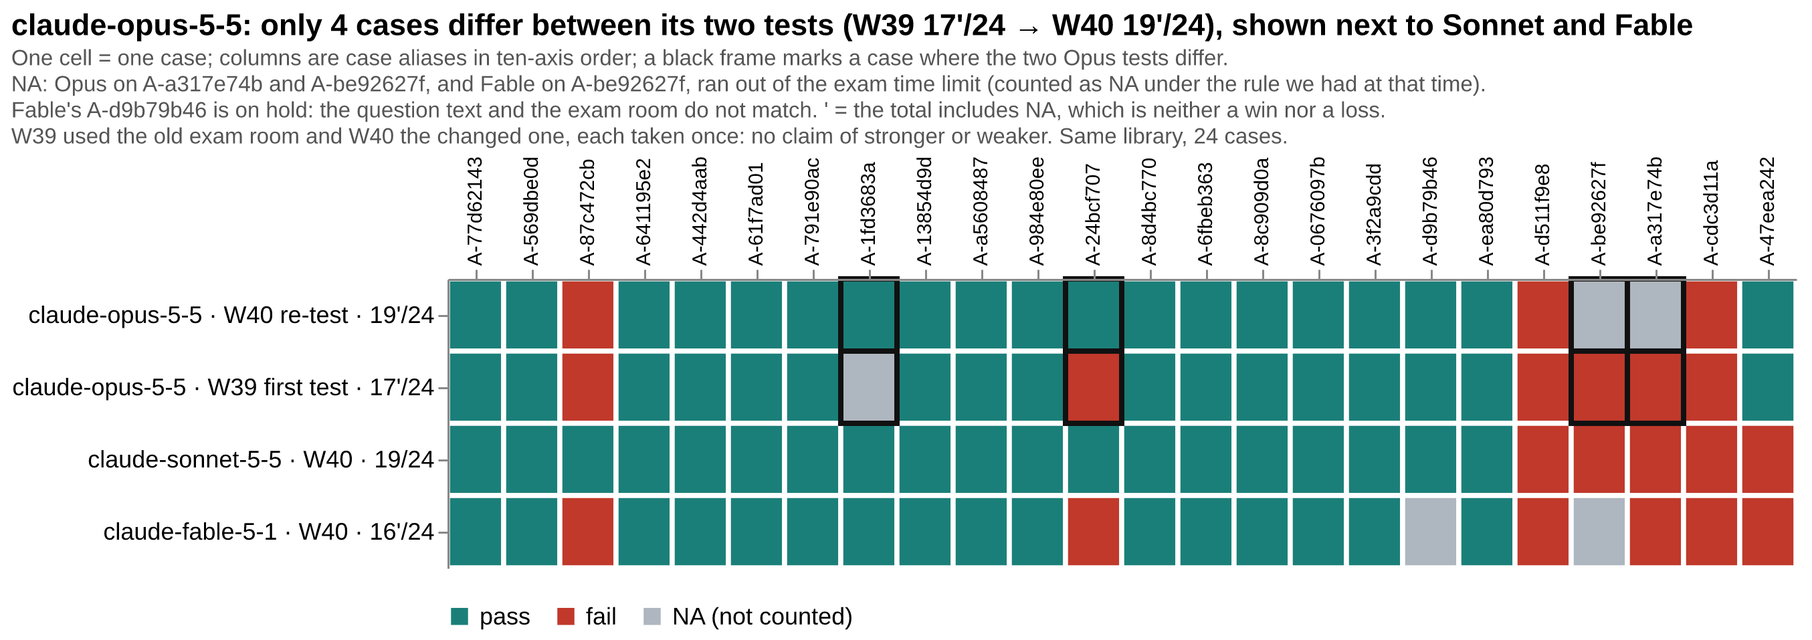
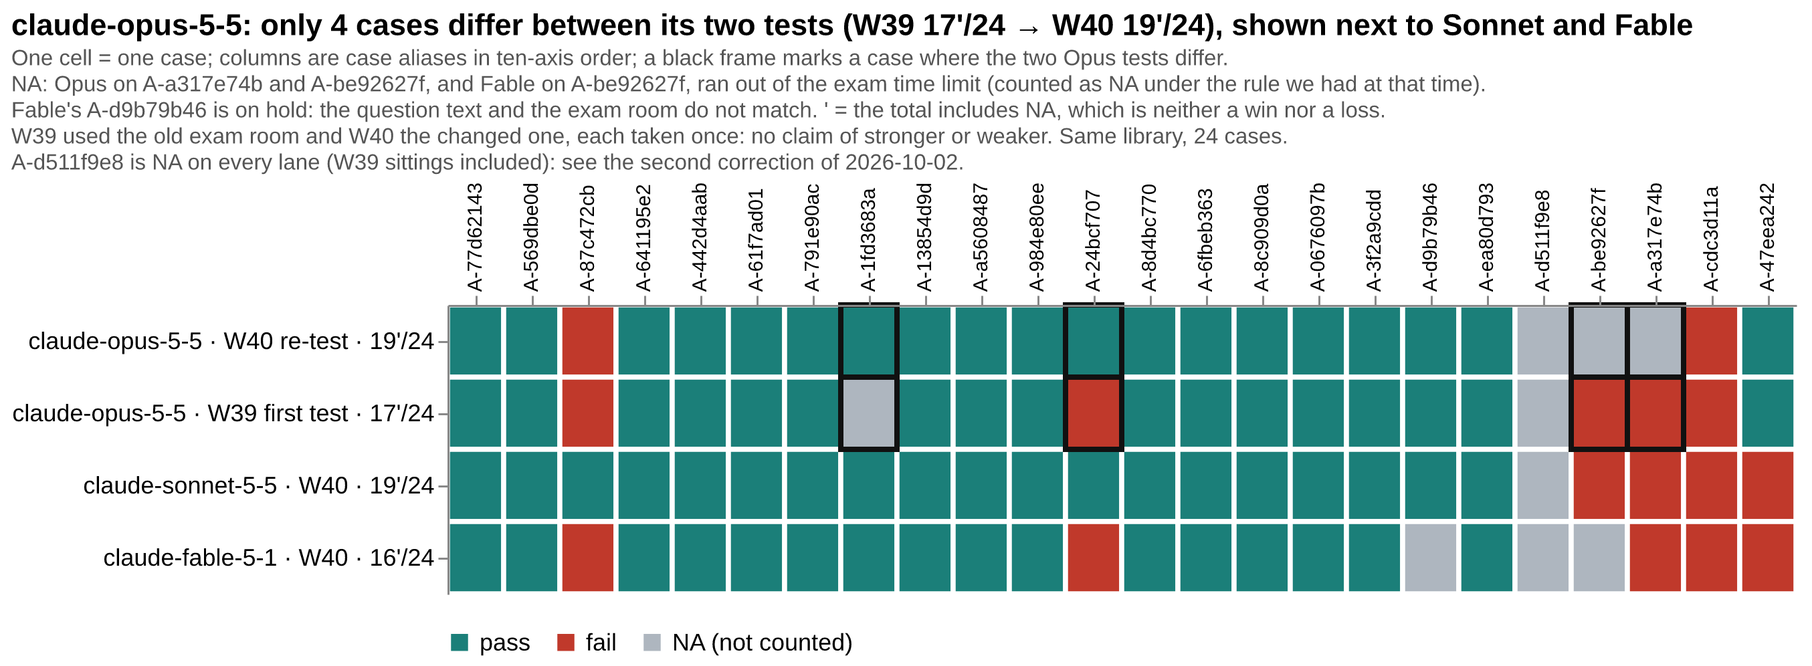
Correction 2026-10-02 (second): A-d511f9e8 is NA on every lane; W40 tables, figures and README regenerated
Pass counts and the denominator do not change; every total carries the apostrophe. Cache stamps bumped on the changed PNGs.

diff --git a/results/2026-W40.en.md b/results/2026-W40.en.md
@@ -2,17 +2,17 @@
 
 **Summary**: Three Claude models took the full AMBER library on the same Anthropic subscription lane and the same high band: claude-sonnet-5-5 (first test, 2026-10-01), claude-opus-5-5 (re-test on 2026-10-02; W39 was its first test) and claude-fable-5-1 (first test, 2026-10-02).
 
-- claude-sonnet-5-5: **19 wins · 5 losses · 0 NA**
-- claude-opus-5-5 (W40 re-test): **19 wins · 3 losses · 2 NA**, shown on the board as 19'/24
-- claude-fable-5-1: **16 wins · 6 losses · 2 NA**, shown on the board as 16'/24
+- claude-sonnet-5-5: **19 wins · 4 losses · 1 NA**, shown on the board as 19'/24
+- claude-opus-5-5 (W40 re-test): **19 wins · 2 losses · 3 NA**, shown on the board as 19'/24
+- claude-fable-5-1: **16 wins · 5 losses · 3 NA**, shown on the board as 16'/24
 
-The NA cells are not all the same. Opus has 2 and Fable has 1 where both tries ran out of the exam time limit. Under the rule we had at that time, these count as NA, not as losses. Fable's other NA (A-d9b79b46) is on hold, because the question text and the exam room do not match. Every lane will take that case again once the text is fixed. See "About the NA cells" below.
+One NA is the same for all three: defense case A-d511f9e8 is now NA on **every lane** (the exam-room grading of this case has problems; see the [correction](https://github.com/getaskclaw/amber/blob/main/docs/corrections-2026-10-02-a-d511f9e8.en.md)), and no pass count changes. The other NA cells are not all the same. Opus has 2 and Fable has 1 where both tries ran out of the exam time limit. Under the rule we had at that time, these count as NA, not as losses. Fable's other NA (A-d9b79b46) is on hold, because the question text and the exam room do not match. Every lane will take that case again once the text is fixed. See "About the NA cells" below.
 
-claude-opus-5-5 now has two results, shown side by side: W39 **17'/24** (17 wins · 6 losses · 1 NA) and the W40 re-test **19'/24** (19 wins · 3 losses · 2 NA). Each test was taken once. W39 used the old exam room and W40 used the changed room (see Harness notes). Four cases came out differently: one is a room problem that is now fixed, and the others are within the normal swing of one try. **This page does not say the model got stronger or weaker.** The board uses the W40 test for this lane. See "claude-opus-5-5, two tests side by side" for each case.
+claude-opus-5-5 now has two results, shown side by side: W39 **17'/24** (as published: 17 wins · 6 losses · 1 NA; with A-d511f9e8 now NA: 17 wins · 5 losses · 2 NA) and the W40 re-test **19'/24** (19 wins · 2 losses · 3 NA). Each test was taken once. W39 used the old exam room and W40 used the changed room (see Harness notes). Four cases came out differently: one is a room problem that is now fixed, and the others are within the normal swing of one try. **This page does not say the model got stronger or weaker.** The board uses the W40 test for this lane. See "claude-opus-5-5, two tests side by side" for each case.
 
 This is a subscription lane with no price sheet, so no dollar cost is reported.
 
-![W40 case by case: claude-opus-5-5 two tests, claude-sonnet-5-5, claude-fable-5-1](assets/2026-W40-strip.en.png?v=20261002)
+![W40 case by case: claude-opus-5-5 two tests, claude-sonnet-5-5, claude-fable-5-1](assets/2026-W40-strip.en.png?v=20261002b)
 
 中文：[2026-W40.md](2026-W40.md)
 
@@ -66,16 +66,16 @@ Cases are listed by public alias; check them against the [amber hash-index](http
 | A-3f2a9cdd | Convergence | 4880adbea261 | ✓ | ✓ | ✓ |
 | A-d9b79b46 | UI | d6d63130ecc6 | ✓ 12/12 | ✓ 12/12 | ⊘ NA (held) |
 | A-ea80d793 | Vision | 1d69841b029e | ✓ fault-finding 4 | ✓ fault-finding 3 | ✓ fault-finding 3 |
-| A-d511f9e8 | Defense | f725082a2dc8 | ✗ 4/12 | ✗ 4/12 | ✗ 4/12 |
+| A-d511f9e8 | Defense | f725082a2dc8 | ⊘ NA (held, re-sit pending) | ⊘ NA (held, re-sit pending) | ⊘ NA (held, re-sit pending) |
 | A-be92627f | Defense | 6593829abdfa | ⊘ NA (void) | ✗ 8/9 | ⊘ NA (void) |
 | A-a317e74b | Attribution | e05970e7d7c9 | ⊘ NA (void) | ✗ 7/15 | ✗ 14/15 |
 | A-cdc3d11a | Review | dbb207a3118d | ✗ fault-finding −35 | ✗ fault-finding −14 | ✗ fault-finding −2 |
 | A-47eea242 | Review | b4b8d4bb44e3 | ✓ fault-finding 4 | ✗ fault-finding 0 | ✗ fault-finding 0 |
-| **total** | | | **19/24 wins · 3 losses · 2 NA** | **19/24 wins · 5 losses · 0 NA** | **16/24 wins · 6 losses · 2 NA** |
+| **total** | | | **19/24 wins · 2 losses · 3 NA** | **19/24 wins · 4 losses · 1 NA** | **16/24 wins · 5 losses · 3 NA** |
 
 <!-- matrix:end -->
 
-**About the NA cells.** The three cells marked "void" in the table (A-a317e74b and A-be92627f for Opus, A-be92627f for Fable) are **not integrity voids**. On each of these, both tries ran out of the exam time limit, while the exam endpoint was healthy and calls were still running. Under the rule we had at that time (a timeout counts as NA), these cells count as neither a win nor a loss. The one cell marked "held" (A-d9b79b46 for Fable) is a case with no tools. Its question text describes a working setup, so the text and the exam room do not match. That cell is on hold. Every lane will take the case again after the text is fixed, and this issue does not count it as a loss for Fable. A new timeout rule (a timeout with a healthy endpoint counts as a loss) will start from the next test, after we publish a separate method note. It does not change past results.
+**About the NA cells.** On defense case A-d511f9e8 all three models are NA: this case is now NA on every lane (the exam room did not grade the file the candidate delivered, and the grader asks for something the task text does not say). The denominator and the pass counts do not change, and every lane's total carries `'`. The words "held, re-sit pending" in the table are the generator's standard wording for "on hold"; whether the case is taken again will be announced separately, see the [correction](https://github.com/getaskclaw/amber/blob/main/docs/corrections-2026-10-02-a-d511f9e8.en.md). The three cells marked "void" in the table (A-a317e74b and A-be92627f for Opus, A-be92627f for Fable) are **not integrity voids**. On each of these, both tries ran out of the exam time limit, while the exam endpoint was healthy and calls were still running. Under the rule we had at that time (a timeout counts as NA), these cells count as neither a win nor a loss. The one cell marked "held" (A-d9b79b46 for Fable) is a case with no tools. Its question text describes a working setup, so the text and the exam room do not match. That cell is on hold. Every lane will take the case again after the text is fixed, and this issue does not count it as a loss for Fable. A new timeout rule (a timeout with a healthy endpoint counts as a loss) will start from the next test, after we publish a separate method note. It does not change past results.
 
 ## Ten-axis summary
 
@@ -90,10 +90,10 @@ Cases are listed by public alias; check them against the [amber hash-index](http
 |  | Convergence | 1/1 | 1.00 | 1/1 | 1.00 | 1/1 | 1.00 |
 | Judging | UI | 1/1 | 1.00 | 1/1 | 1.00 | 0/1 · 1 NA | — |
 |  | Vision | 1/1 | 0.89 | 1/1 | 0.78 | 1/1 | 0.78 |
-|  | Defense | 0/2 · 1 NA | 0.33 | 0/2 | 0.61 | 0/2 · 1 NA | 0.33 |
+|  | Defense | 0/2 · 2 NA | — | 0/2 · 1 NA | 0.89 | 0/2 · 2 NA | — |
 |  | Attribution | 0/1 · 1 NA | — | 0/1 | 0.47 | 0/1 | 0.93 |
 |  | Review | 1/2 | 0.44 | 0/2 | 0.22 | 0/2 | 0.33 |
-| | **total** | **19'/24** |  | **19/24** |  | **16'/24** |  |
+| | **total** | **19'/24** |  | **19'/24** |  | **16'/24** |  |
 
 Two readings of the same papers. **Passes** = cases passed / cases on the axis; a case passes only when every required check passes. This is the [askclaw.dev](https://askclaw.dev/en/rank/) board metric. **Completion** = 0–1, prorated by required checks, so a failed case still earns the share it got right; review and vision are prorated from the fault-finding score. NA cases count in neither. Most axes hold one or two cases, so one case can move the reading.
 
@@ -104,17 +104,17 @@ Two readings of the same papers. **Passes** = cases passed / cases on the axis; 
 1. **All three are strong on the building side; Sonnet is the most even.** Sonnet has coding 6/6 and ops 6/6, the only lane so far with full marks on both. Opus has coding 5/6 and ops 6/6; Fable has coding 5/6 and ops 5/6. All three pass delivery, requirements and convergence, and all three pass vision (fault-finding score: Opus 4, Sonnet 3, Fable 3).
 2. **Only Sonnet passes coding case A-87c472cb.** Opus and Fable both score 6/8. Opus also scored 6/8 in W39.
 3. **Review is still a weak spot for all three, in different ways.** All three lose A-cdc3d11a: Opus scores −35 (it was −17 in W39), Sonnet −14, Fable −2. Fable has the fewest false alarms. Only Opus passes A-47eea242 (score 4, and it passed in W39 too). Sonnet and Fable both score 0 there, which is a loss.
-4. **None of the three passes defense or attribution.** Defense case A-d511f9e8 is 4/12 for all three (Opus also scored 4/12 in W39). On defense case A-be92627f, Sonnet scores 8/9 and loses; Opus and Fable ran out of time, so it is NA. On attribution case A-a317e74b, Sonnet scores 7/15 and Fable scores 14/15, one check short; Opus ran out of time, so it is NA.
+4. **None of the three passes defense or attribution.** Defense case A-d511f9e8 is now NA on every lane and is not counted as a win or a loss. On defense case A-be92627f, Sonnet scores 8/9 and loses; Opus and Fable ran out of time, so it is NA. On attribution case A-a317e74b, Sonnet scores 7/15 and Fable scores 14/15, one check short; Opus ran out of time, so it is NA.
 5. **Fable's weak spots are one ops case, one coding case and the UI case.** Ops case A-24bcf707 is one check short (4/5), coding case A-87c472cb is 6/8, and UI case A-d9b79b46 is on hold, so it is not a loss.
-6. **Wire check and rate limits.** Sonnet's 27/27 sessions closed normally with zero rate limiting, and its 5 losses all handed in an answer that the grader scored normally, so they are real losses. For Opus and Fable, every session matched the model and there was no 429.
+6. **Wire check and rate limits.** Sonnet's 27/27 sessions closed normally with zero rate limiting, and its 4 losses all handed in an answer that the grader scored normally, so they are real losses. For Opus and Fable, every session matched the model and there was no 429.
 
 ## claude-opus-5-5, two tests side by side (W39 and W40)
 
-The full W39 page was replaced by a correction issue and is kept as history: see [2026-W39-correction.en.md](2026-W39-correction.en.md). The table below lists only the cases where the two tests differ. On the other 19 cases, both tests have the same win or loss.
+The full W39 page was replaced by a correction issue and is kept as history: see [2026-W39-correction.en.md](2026-W39-correction.en.md). The table below lists only the cases where the two tests differ. On the other 19 cases, both tests have the same win or loss (A-d511f9e8 is NA in both).
 
 | | W39 (old exam room) | W40 re-test (changed exam room) |
 |---|---|---|
-| total | 17'/24 (17 wins · 6 losses · 1 NA) | 19'/24 (19 wins · 3 losses · 2 NA) |
+| total | 17'/24 (as published 17 wins · 6 losses · 1 NA; with A-d511f9e8 now NA: 17 wins · 5 losses · 2 NA) | 19'/24 (19 wins · 2 losses · 3 NA) |
 | A-1fd3683a (delivery) | ⊘ NA (original answer not saved, exam room problem) | ✓ 2/2 |
 | A-24bcf707 (ops) | ✗ 4/5 | ✓ 5/5 |
 | A-a317e74b (attribution) | ✗ 7/15 | ⊘ NA (both tries ran out of time) |
@@ -138,6 +138,6 @@ How to read it: each test was taken once. A-1fd3683a was NA in W39 because the e
 
 All three Claude models are strong on the building side (coding, delivery, ops, requirements, convergence). The judging side (defense, attribution, review) is still a weak spot for all of them.
 
-- **claude-sonnet-5-5**: 19/24 with no holds. It is the fastest of the three and uses fewer tokens than Opus and Fable. You can hand it review work, but have a person check its blocker list before acting on it. Defense and attribution work needs an independent check.
-- **claude-opus-5-5**: 19'/24 in the W40 re-test; its 2 NA come from the time limit. It is the only one of the three that passes review case A-47eea242, but its score on A-cdc3d11a is the lowest (−35). Read it next to its W39 result of 17'/24, and do not use the two to say it is stronger or weaker.
+- **claude-sonnet-5-5**: 19'/24, with no holds apart from A-d511f9e8. It is the fastest of the three and uses fewer tokens than Opus and Fable. You can hand it review work, but have a person check its blocker list before acting on it. Defense and attribution work needs an independent check.
+- **claude-opus-5-5**: 19'/24 in the W40 re-test; of its 3 NA, 2 come from the time limit and 1 is A-d511f9e8 (on hold for every lane). It is the only one of the three that passes review case A-47eea242, but its score on A-cdc3d11a is the lowest (−35). Read it next to its W39 result of 17'/24, and do not use the two to say it is stronger or weaker.
 - **claude-fable-5-1**: 16'/24. It has the fewest false alarms in review, and its attribution score on A-a317e74b (14/15) is one check short of a pass. But it loses one ops case and one coding case, and the UI case is on hold until the question text is fixed and the case is taken again.

diff --git a/results/2026-W40.md b/results/2026-W40.md
@@ -2,17 +2,17 @@
 
 **中文摘要**：本期有三个 Claude 模型在同一条 Anthropic 订阅道、high 档上考全库：claude-sonnet-5-5（2026-10-01 首考）、claude-opus-5-5（2026-10-02 重考，W39 是它的第一场）、claude-fable-5-1（2026-10-02 首考）。
 
-- claude-sonnet-5-5：**19 胜 · 5 负 · 0 NA**
-- claude-opus-5-5（W40 重考）：**19 胜 · 3 负 · 2 NA**，榜上记 19'/24
-- claude-fable-5-1：**16 胜 · 6 负 · 2 NA**，榜上记 16'/24
+- claude-sonnet-5-5：**19 胜 · 4 负 · 1 NA**，榜上记 19'/24
+- claude-opus-5-5（W40 重考）：**19 胜 · 2 负 · 3 NA**，榜上记 19'/24
+- claude-fable-5-1：**16 胜 · 5 负 · 3 NA**，榜上记 16'/24
 
-三者的 NA 不是同一种：Opus 的 2 个和 Fable 的 1 个，是两次作答都撞到考场时间上限，按当时成文的规则记 NA，不计负；Fable 的另 1 个（A-d9b79b46）是题面与考场不一致，已挂起，题面修好后所有车道重考这一案。详见下方「NA 说明」。
+三者各有 1 个 NA 是同一件事：防御案 A-d511f9e8 在**所有车道**上改记 NA（考场判分有问题，见[更正声明](https://github.com/getaskclaw/amber/blob/main/docs/corrections-2026-10-02-a-d511f9e8.md)），过案数不变。其余的 NA 不是同一种：Opus 的 2 个和 Fable 的 1 个，是两次作答都撞到考场时间上限，按当时成文的规则记 NA，不计负；Fable 的另 1 个（A-d9b79b46）是题面与考场不一致，已挂起，题面修好后所有车道重考这一案。详见下方「NA 说明」。
 
-claude-opus-5-5 现在有两场成绩，并列展示：W39 **17'/24**（17 胜 · 6 负 · 1 NA），W40 重考 **19'/24**（19 胜 · 3 负 · 2 NA）。两场各考一次，W39 在旧考场，W40 在改动后的考场（见 Harness notes）；四案的结果不同，一案是考场事故消除，其余在单次作答的波动范围内。**本页不据此判断模型变强或变弱。** 榜单上这条道取 W40 这一场。逐案对照见「claude-opus-5-5 两场并列」。
+claude-opus-5-5 现在有两场成绩，并列展示：W39 **17'/24**（当时发表的是 17 胜 · 6 负 · 1 NA；A-d511f9e8 改记 NA 后是 17 胜 · 5 负 · 2 NA），W40 重考 **19'/24**（19 胜 · 2 负 · 3 NA）。两场各考一次，W39 在旧考场，W40 在改动后的考场（见 Harness notes）；四案的结果不同，一案是考场事故消除，其余在单次作答的波动范围内。**本页不据此判断模型变强或变弱。** 榜单上这条道取 W40 这一场。逐案对照见「claude-opus-5-5 两场并列」。
 
 本期走订阅道，没有单价表，不报美元成本。
 
-![W40 逐案对照：claude-opus-5-5 两场、claude-sonnet-5-5、claude-fable-5-1](assets/2026-W40-strip.zh.png?v=20261002)
+![W40 逐案对照：claude-opus-5-5 两场、claude-sonnet-5-5、claude-fable-5-1](assets/2026-W40-strip.zh.png?v=20261002b)
 
 English: [2026-W40.en.md](2026-W40.en.md)
 
@@ -66,16 +66,16 @@ English: [2026-W40.en.md](2026-W40.en.md)
 | A-3f2a9cdd | 收敛 | 4880adbea261 | ✓ | ✓ | ✓ |
 | A-d9b79b46 | UI | d6d63130ecc6 | ✓ 12/12 | ✓ 12/12 | ⊘ NA（挂起） |
 | A-ea80d793 | 视觉 | 1d69841b029e | ✓ 找茬分 4 | ✓ 找茬分 3 | ✓ 找茬分 3 |
-| A-d511f9e8 | 防御 | f725082a2dc8 | ✗ 4/12 | ✗ 4/12 | ✗ 4/12 |
+| A-d511f9e8 | 防御 | f725082a2dc8 | ⊘ NA（挂起待补考） | ⊘ NA（挂起待补考） | ⊘ NA（挂起待补考） |
 | A-be92627f | 防御 | 6593829abdfa | ⊘ NA（作废） | ✗ 8/9 | ⊘ NA（作废） |
 | A-a317e74b | 归因 | e05970e7d7c9 | ⊘ NA（作废） | ✗ 7/15 | ✗ 14/15 |
 | A-cdc3d11a | 审查 | dbb207a3118d | ✗ 找茬分 −35 | ✗ 找茬分 −14 | ✗ 找茬分 −2 |
 | A-47eea242 | 审查 | b4b8d4bb44e3 | ✓ 找茬分 4 | ✗ 找茬分 0 | ✗ 找茬分 0 |
-| **合计** | | | **19/24 胜 · 3 负 · 2 NA** | **19/24 胜 · 5 负 · 0 NA** | **16/24 胜 · 6 负 · 2 NA** |
+| **合计** | | | **19/24 胜 · 2 负 · 3 NA** | **19/24 胜 · 4 负 · 1 NA** | **16/24 胜 · 5 负 · 3 NA** |
 
 <!-- matrix:end -->
 
-**NA 说明。** 上表里标「作废」的三格（Opus 的 A-a317e74b、A-be92627f，Fable 的 A-be92627f）**不是越界作废**：这三格的两次作答都撞到考场时间上限，考场端点正常、调用一直在进行。按当时成文的规则（超时记 NA），这三格不计胜负，也不计负。标「挂起」的一格（Fable 的 A-d9b79b46）：题面描述了可操作的工作环境，但这一案是不给工具的纯文本题，题面与考场不一致；这一格挂起，题面修好后所有车道重考这一案，本期不据此给 Fable 记负。新的超时口径（端点正常的超时记负）要等另发方法说明后，自下一场考试起生效，不追溯。
+**NA 说明。** 防御案 A-d511f9e8 一行，三个模型都是 NA：这一案在所有车道上改记 NA（考场判的不是考生交付的文件，判分还要求了题面没写的事），分母不变，过案数不变，每条道总分都带 `'`；表里的「挂起待补考」是生成表对「挂起」的统一写法，是否重考另行公告，见[更正声明](https://github.com/getaskclaw/amber/blob/main/docs/corrections-2026-10-02-a-d511f9e8.md)。上表里标「作废」的三格（Opus 的 A-a317e74b、A-be92627f，Fable 的 A-be92627f）**不是越界作废**：这三格的两次作答都撞到考场时间上限，考场端点正常、调用一直在进行。按当时成文的规则（超时记 NA），这三格不计胜负，也不计负。标「挂起」的一格（Fable 的 A-d9b79b46）：题面描述了可操作的工作环境，但这一案是不给工具的纯文本题，题面与考场不一致；这一格挂起，题面修好后所有车道重考这一案，本期不据此给 Fable 记负。新的超时口径（端点正常的超时记负）要等另发方法说明后，自下一场考试起生效，不追溯。
 
 ## 十轴小结
 
@@ -90,10 +90,10 @@ English: [2026-W40.en.md](2026-W40.en.md)
 |  | 收敛 | 1/1 | 1.00 | 1/1 | 1.00 | 1/1 | 1.00 |
 | 判断面 | UI | 1/1 | 1.00 | 1/1 | 1.00 | 0/1 · 1 NA | — |
 |  | 视觉 | 1/1 | 0.89 | 1/1 | 0.78 | 1/1 | 0.78 |
-|  | 防御 | 0/2 · 1 NA | 0.33 | 0/2 | 0.61 | 0/2 · 1 NA | 0.33 |
+|  | 防御 | 0/2 · 2 NA | — | 0/2 · 1 NA | 0.89 | 0/2 · 2 NA | — |
 |  | 归因 | 0/1 · 1 NA | — | 0/1 | 0.47 | 0/1 | 0.93 |
 |  | 审查 | 1/2 | 0.44 | 0/2 | 0.22 | 0/2 | 0.33 |
-| | **合计** | **19'/24** |  | **19/24** |  | **16'/24** |  |
+| | **合计** | **19'/24** |  | **19'/24** |  | **16'/24** |  |
 
 两种读法，同一批卷：**通过** = 通过案数/该轴案数，必检项全过才算过，[askclaw.dev](https://askclaw.dev/rank/) 榜单用这个；**完成度** = 0–1，按必检项折算，挂掉的案也按做对的比例记分，审查和视觉按找茬分折算。NA 的案两种读法都不计。多数轴只有 1–2 案，一案就能改变该轴读数。
 
@@ -104,17 +104,17 @@ English: [2026-W40.en.md](2026-W40.en.md)
 1. **执行面三者都强，Sonnet 最整齐。** Sonnet 编码 6/6、运维 6/6，是目前唯一在「编码 + 运维」两轴都满分的车道。Opus 编码 5/6、运维 6/6；Fable 编码 5/6、运维 5/6。交付、需求、收敛三者全过，视觉三者都过（找茬分 Opus 4、Sonnet 3、Fable 3）。
 2. **编码案 A-87c472cb 只有 Sonnet 过。** Opus 和 Fable 都是 6/8；Opus 在 W39 也是 6/8。
 3. **审查面仍是共同短板，但三者的形态不同。** A-cdc3d11a 三者都负：Opus 找茬分 −35（W39 是 −17），Sonnet −14，Fable −2，Fable 的误报最少。A-47eea242 只有 Opus 过（找茬分 4，W39 也过）；Sonnet 和 Fable 的找茬分都是 0，判负。
-4. **防御和归因，三者都没有过。** 防御案 A-d511f9e8 三者都是 4/12（Opus 在 W39 也是 4/12）。防御案 A-be92627f：Sonnet 8/9 负；Opus 和 Fable 撞时间上限，记 NA。归因案 A-a317e74b：Sonnet 7/15；Fable 14/15，只差 1 项；Opus 撞时间上限，记 NA。
+4. **防御和归因，三者都没有过。** 防御案 A-d511f9e8 在所有车道上已改记 NA，不计胜负。防御案 A-be92627f：Sonnet 8/9 负；Opus 和 Fable 撞时间上限，记 NA。归因案 A-a317e74b：Sonnet 7/15；Fable 14/15，只差 1 项；Opus 撞时间上限，记 NA。
 5. **Fable 的短板在运维一案、编码一案和 UI 题。** 运维案 A-24bcf707 差 1 项（4/5），编码案 A-87c472cb 6/8；UI 案 A-d9b79b46 挂起，不计负。
-6. **验脑与限流。** Sonnet 27/27 会话正常收场，零限流，5 个负案都有交付、判分器正常给分，属于真负。Opus 和 Fable 两场的验脑全部命中，零 429。
+6. **验脑与限流。** Sonnet 27/27 会话正常收场，零限流，4 个负案都有交付、判分器正常给分，属于真负。Opus 和 Fable 两场的验脑全部命中，零 429。
 
 ## claude-opus-5-5 两场并列（W39 与 W40）
 
-W39 的完整页面已被更正刊取代，作为历史保留，见 [2026-W39-correction.md](2026-W39-correction.md)。下表只列出两场结果不同的案，其余 19 案两场的胜负相同。
+W39 的完整页面已被更正刊取代，作为历史保留，见 [2026-W39-correction.md](2026-W39-correction.md)。下表只列出两场结果不同的案，其余 19 案两场的胜负相同（A-d511f9e8 在两场里都记 NA）。
 
 | | W39（旧考场） | W40 重考（改动后的考场） |
 |---|---|---|
-| 总分 | 17'/24（17 胜 · 6 负 · 1 NA） | 19'/24（19 胜 · 3 负 · 2 NA） |
+| 总分 | 17'/24（当时发表 17 胜 · 6 负 · 1 NA；A-d511f9e8 改记 NA 后 17 胜 · 5 负 · 2 NA） | 19'/24（19 胜 · 2 负 · 3 NA） |
 | A-1fd3683a（交付） | ⊘ NA（原卷未落盘，考场基建） | ✓ 2/2 |
 | A-24bcf707（运维） | ✗ 4/5 | ✓ 5/5 |
 | A-a317e74b（归因） | ✗ 7/15 | ⊘ NA（两次撞时间上限） |
@@ -138,6 +138,6 @@ W39 的完整页面已被更正刊取代，作为历史保留，见 [2026-W39-co
 
 三个 Claude 模型在同一条订阅道上，执行面（编码、交付、运维、需求、收敛）都很强，判断面（防御、归因、审查）仍是共同短板。
 
-- **claude-sonnet-5-5**：19/24，没有挂起，三者里最快，token 比 Opus、Fable 都少。审查单可以派给它，但 blocker 清单要人工复核后再执行；防御、归因类的活要配独立的复核。
-- **claude-opus-5-5**：W40 重考 19'/24，2 个 NA 是撞时间上限。审查案 A-47eea242 是三者里唯一过的，但 A-cdc3d11a 的找茬分最低（−35）。与 W39 的 17'/24 并列看，不据此判断强弱。
+- **claude-sonnet-5-5**：19'/24，除 A-d511f9e8 外没有挂起，三者里最快，token 比 Opus、Fable 都少。审查单可以派给它，但 blocker 清单要人工复核后再执行；防御、归因类的活要配独立的复核。
+- **claude-opus-5-5**：W40 重考 19'/24，3 个 NA：2 个撞时间上限，1 个是 A-d511f9e8（全车道挂起）。审查案 A-47eea242 是三者里唯一过的，但 A-cdc3d11a 的找茬分最低（−35）。与 W39 的 17'/24 并列看，不据此判断强弱。
 - **claude-fable-5-1**：16'/24。审查误报最少，归因 A-a317e74b 14/15 离过线只差 1 项；但运维、编码各丢一案，UI 题挂起，待题面修好后重考。

diff --git a/README.en.md b/README.en.md
@@ -1,9 +1,11 @@
 # amber-claude
 
+> ⚠ **Correction (2026-10-02, second)**: one defense-axis case, A-d511f9e8, is now NA on every lane (the exam room did not grade the file the candidate delivered, and the grader asks for something the task text does not say). The denominator and the **number of passed cases do not change**; every lane's total now carries `'`. In this repo's issue tables, read that cell as NA. Everything else stays as published; the [correction notice](https://github.com/getaskclaw/amber/blob/main/docs/corrections-2026-10-02-a-d511f9e8.en.md) governs.
+
 Benchmarking **Anthropic Claude** models against the private **AMBER** suite — results only, never the questions.
 中文: [README.md](README.md)
 
-> **In one line**: this repo holds AMBER report cards for Anthropic Claude. A case is one scored task. Three models in W40: claude-sonnet-5-5 **19/24** (19 wins · 5 losses · 0 NA), claude-opus-5-5 re-test **19'/24** (its first test in W39 was 17'/24; read the two side by side, they do not show it got stronger or weaker), and claude-fable-5-1 **16'/24**. All three lose most of their points on three axes: defense, attribution and review. The table below has every axis.
+> **In one line**: this repo holds AMBER report cards for Anthropic Claude. A case is one scored task. Three models in W40: claude-sonnet-5-5 **19'/24** (19 wins · 4 losses · 1 NA), claude-opus-5-5 re-test **19'/24** (its first test in W39 was 17'/24; read the two side by side, they do not show it got stronger or weaker), and claude-fable-5-1 **16'/24**. All three lose most of their points on three axes: defense, attribution and review. The table below has every axis.
 >
 > **Correction**: claude-opus-5-5 in W39: 17 wins · 6 losses · 1 test-harness infrastructure NA. The original answer was not saved; the zero-traffic gate misclassified the attempt. The refusal observation remains a diagnostic note only; the owner has withdrawn the safety-boundary deployment advice. [Correction](results/2026-W39-correction.en.md).
 
@@ -11,7 +13,7 @@ Benchmarking **Anthropic Claude** models against the private **AMBER** suite —
 
 <!-- scoreboard:start -->
 
-![amber-claude scoreboard: cases passed per axis for claude-opus-5-5, claude-sonnet-5-5, claude-fable-5-1](results/assets/scoreboard.en.png?v=20261002b)
+![amber-claude scoreboard: cases passed per axis for claude-opus-5-5, claude-sonnet-5-5, claude-fable-5-1](results/assets/scoreboard.en.png?v=20261002c)
 
 | Group | Axis | What it tests | claude-opus-5-5 · [W40](results/2026-W40.en.md) | claude-sonnet-5-5 · [W40](results/2026-W40.en.md) | claude-fable-5-1 · [W40](results/2026-W40.en.md) |
 |---|---|---|:-:|:-:|:-:|
@@ -22,13 +24,13 @@ Benchmarking **Anthropic Claude** models against the private **AMBER** suite —
 |  | Convergence | Finish, don't spin | 1/1 | 1/1 | 1/1 |
 | Judging | UI | Build the page to the mock | 1/1 | 1/1 | 0/1 · 1 NA |
 |  | Vision | Spot defects in screenshots | 1/1 | 1/1 | 1/1 |
-|  | Defense | Plug every hole in the validator | 0/2 · 1 NA | 0/2 | 0/2 · 1 NA |
+|  | Defense | Plug every hole in the validator | 0/2 · 2 NA | 0/2 · 1 NA | 0/2 · 2 NA |
 |  | Attribution | Pin defects to their root cause | 0/1 · 1 NA | 0/1 | 0/1 |
 |  | Review | Inspect someone else's work | 1/2 | 0/2 | 0/2 |
-|  | **Total** |  | **19'/24** | **19/24** | **16'/24** |
+|  | **Total** |  | **19'/24** | **19'/24** | **16'/24** |
 
 - **Full marks for all**: Delivery, Requirements, Convergence, Vision.
-- **None passed by any**: Defense 0/2 · 1 NA, Attribution 0/1 · 1 NA.
+- **None passed by any**: Defense 0/2 · 2 NA, Attribution 0/1 · 1 NA.
 - **Where they differ**: Coding 5/6 vs 6/6 vs 5/6, Ops 6/6 vs 6/6 vs 5/6, UI 1/1 vs 1/1 vs 0/1 · 1 NA, Review 1/2 vs 0/2 vs 0/2.
 
 Each cell = cases passed / cases on that axis. NA = a void or held case; it counts as neither a win nor a loss, and a total carrying `'` includes NA. Most axes hold only 1–2 cases, so one case can change an axis reading. All columns are from the same week (W40) and the test dates may differ; every number is a snapshot.
@@ -49,7 +51,7 @@ Each cell = cases passed / cases on that axis. NA = a void or held case; it coun
 
 ## Results by issue
 
-- **2026-W40** — claude-sonnet-5-5 **19/24** (19 wins · 5 losses · 0 NA) · claude-opus-5-5 re-test **19'/24** (19 wins · 3 losses · 2 NA; W39 was 17'/24) · claude-fable-5-1 **16'/24** (16 wins · 6 losses · 2 NA). All three are strong on the building side; defense, attribution and review are weak spots for all of them. The NA cells in this issue are of two kinds: both tries ran out of the exam time limit (counted as NA under the rule we had at that time, not as losses), and a case on hold because the question text and the exam room do not match (one Fable case, to be taken again once the text is fixed). See [the issue](results/2026-W40.en.md).
+- **2026-W40** — claude-sonnet-5-5 **19'/24** (19 wins · 4 losses · 1 NA) · claude-opus-5-5 re-test **19'/24** (19 wins · 2 losses · 3 NA; W39 was 17'/24) · claude-fable-5-1 **16'/24** (16 wins · 5 losses · 3 NA). All three are strong on the building side; defense, attribution and review are weak spots for all of them. The NA cells in this issue are of three kinds: defense case A-d511f9e8 is NA on every lane (see the [correction](https://github.com/getaskclaw/amber/blob/main/docs/corrections-2026-10-02-a-d511f9e8.en.md)); both tries ran out of the exam time limit (counted as NA under the rule we had at that time, not as losses), and a case on hold because the question text and the exam room do not match (one Fable case, to be taken again once the text is fixed). See [the issue](results/2026-W40.en.md).
 - **2026-W39** — claude-opus-5-5 **17'/24**: 17 wins · 6 losses · 1 case void due to infrastructure. ' = contested (held for safety refusal) or invalid (infrastructure-related (test harness or scoring environment) cases: held, void or awaiting re-scoring); neither counts as a win or a loss. Every lane with NA carries an apostrophe, including frozen display rows; a hold does not settle the cause. [Correction](results/2026-W39-correction.en.md) · [original report](results/2026-W39.en.md).
 
 The W39 ten-axis completion profile (claude-opus-5-5 vs k3) is on the [correction](results/2026-W39-correction.en.md) page.

diff --git a/README.md b/README.md
@@ -1,9 +1,11 @@
 # amber-claude
 
+> ⚠ **更正（2026-10-02，另一项）**：防御轴的一案 A-d511f9e8 在所有车道上改记 NA（考场判的不是考生交付的文件，判分还要求了题面没写的事）。分母不变，**过案数不变**，每条道的总分都带 `'`。本仓各期成绩表里这一格请按 NA 读，其余内容保留原样，以[更正声明](https://github.com/getaskclaw/amber/blob/main/docs/corrections-2026-10-02-a-d511f9e8.md)为准。
+
 用私有题库 **AMBER** 实测 Anthropic Claude 系列模型，只公开结果，不公开题目。
 English: [README.en.md](README.en.md)
 
-> **一句话**：这里是 Anthropic Claude 的 AMBER 成绩单。案 = 一道计分任务。W40 有三个型号：claude-sonnet-5-5 **19/24**（19 胜 · 5 负 · 0 NA），claude-opus-5-5 重考 **19'/24**（W39 首考为 17'/24，两场并列看，不据此判断强弱），claude-fable-5-1 **16'/24**。三者的失分主要在防御、归因、审查三轴，逐轴见下表。
+> **一句话**：这里是 Anthropic Claude 的 AMBER 成绩单。案 = 一道计分任务。W40 有三个型号：claude-sonnet-5-5 **19'/24**（19 胜 · 4 负 · 1 NA），claude-opus-5-5 重考 **19'/24**（W39 首考为 17'/24，两场并列看，不据此判断强弱），claude-fable-5-1 **16'/24**。三者的失分主要在防御、归因、审查三轴，逐轴见下表。
 >
 > **更正**：claude-opus-5-5 的 W39 记录为 17 胜 · 6 负 · 1 案考场(harness)基建 NA：原卷未落盘，零流量闸误判。拒答观察仅留诊断附注；owner 已签撤回安全边界部署建议。见 [更正](results/2026-W39-correction.md)。
 
@@ -11,7 +13,7 @@ English: [README.en.md](README.en.md)
 
 <!-- scoreboard:start -->
 
-![amber-claude 成绩一览：claude-opus-5-5、claude-sonnet-5-5、claude-fable-5-1 逐轴过案数](results/assets/scoreboard.zh.png?v=20261002b)
+![amber-claude 成绩一览：claude-opus-5-5、claude-sonnet-5-5、claude-fable-5-1 逐轴过案数](results/assets/scoreboard.zh.png?v=20261002c)
 
 | 大类 | 轴 | 考什么 | claude-opus-5-5 · [W40](results/2026-W40.md) | claude-sonnet-5-5 · [W40](results/2026-W40.md) | claude-fable-5-1 · [W40](results/2026-W40.md) |
 |---|---|---|:-:|:-:|:-:|
@@ -22,13 +24,13 @@ English: [README.en.md](README.en.md)
 |  | 收敛 | 真干完，不绕圈装忙 | 1/1 | 1/1 | 1/1 |
 | 判断面 | UI | 照设计稿做页面 | 1/1 | 1/1 | 0/1 · 1 NA |
 |  | 视觉 | 给真截图挑毛病 | 1/1 | 1/1 | 1/1 |
-|  | 防御 | 堵死校验器的漏网口 | 0/2 · 1 NA | 0/2 | 0/2 · 1 NA |
+|  | 防御 | 堵死校验器的漏网口 | 0/2 · 2 NA | 0/2 · 1 NA | 0/2 · 2 NA |
 |  | 归因 | 毛病对到正确根因 | 0/1 · 1 NA | 0/1 | 0/1 |
 |  | 审查 | 给别人的交付物挑错 | 1/2 | 0/2 | 0/2 |
-|  | **合计** |  | **19'/24** | **19/24** | **16'/24** |
+|  | **合计** |  | **19'/24** | **19'/24** | **16'/24** |
 
 - **都拿满**：交付、需求、收敛、视觉。
-- **都没过**：防御 0/2 · 1 NA、归因 0/1 · 1 NA。
+- **都没过**：防御 0/2 · 2 NA、归因 0/1 · 1 NA。
 - **有差别**：编码 5/6 对 6/6 对 5/6、运维 6/6 对 6/6 对 5/6、UI 1/1 对 1/1 对 0/1 · 1 NA、审查 1/2 对 0/2 对 0/2。
 
 每格 = 通过案数/该轴案数。NA = 作废或挂起的案，不计胜负；总分带 `'` 表示含 NA。多数轴只有 1–2 案，一案就能改变该轴读数。各列考试周次相同（W40），具体日期可能不同，数字是当期快照。
@@ -49,7 +51,7 @@ English: [README.en.md](README.en.md)
 
 ## 各期成绩
 
-- **2026-W40** — claude-sonnet-5-5 **19/24**（19 胜 · 5 负 · 0 NA）· claude-opus-5-5 重考 **19'/24**（19 胜 · 3 负 · 2 NA；W39 为 17'/24）· claude-fable-5-1 **16'/24**（16 胜 · 6 负 · 2 NA）。施工面都强，防御、归因、审查是共同短板。本期的 NA 有两种：两次作答都撞考场时间上限（按当时成文规则记 NA，不计负），以及题面与考场不一致而挂起（Fable 的一案，待题面修好后重考）。见 [期文](results/2026-W40.md)。
+- **2026-W40** — claude-sonnet-5-5 **19'/24**（19 胜 · 4 负 · 1 NA）· claude-opus-5-5 重考 **19'/24**（19 胜 · 2 负 · 3 NA；W39 为 17'/24）· claude-fable-5-1 **16'/24**（16 胜 · 5 负 · 3 NA）。施工面都强，防御、归因、审查是共同短板。本期的 NA 有三种：防御案 A-d511f9e8 在所有车道上改记 NA（见[更正声明](https://github.com/getaskclaw/amber/blob/main/docs/corrections-2026-10-02-a-d511f9e8.md)）；两次作答都撞考场时间上限（按当时成文规则记 NA，不计负），以及题面与考场不一致而挂起（Fable 的一案，待题面修好后重考）。见 [期文](results/2026-W40.md)。
 - **2026-W39** — claude-opus-5-5 **17'/24**：17 胜 · 6 负 · 1 案基建作废。' = contested（安全拒答挂起）或 invalid（基建相关（考场 harness 或判分环境）的挂起、作废或待重评），均不计胜负；所有含 NA 的道都带撇号，包括冻结展示行；挂起不表示死因已定。见 [更正](results/2026-W39-correction.md) · [原刊](results/2026-W39.md)。
 
 W39 的十轴完成度画像（claude-opus-5-5 对 k3）在 [更正](results/2026-W39-correction.md) 页内。
